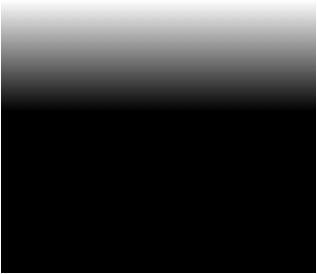
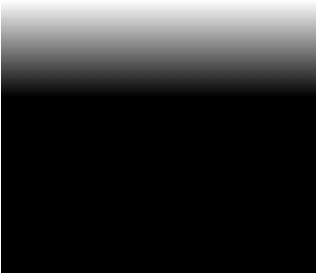
add text progress

Changed region(s): [[0.0, 0.2336, 1.0, 0.3796]]

diff --git a/js/main.js b/js/main.js
@@ -28,7 +28,9 @@
       this.glare2 = this.$('#js-glare2');
       this.scanLine = this.$('#js-scan-line');
       this.scanImage = this.$('#js-scan-image');
-      return this.scan = this.$('#js-scan');
+      this.scan = this.$('#js-scan');
+      this.progressText = this.$('#js-progress-text');
+      return this.progressText2 = this.$('#js-progress-text2');
     };
 
     Main.prototype.animateRainbow = function() {
@@ -104,12 +106,18 @@
       var it, tween;
       it = this;
       tween = TweenMax.to({
-        y: 0
+        y: 0,
+        p: 0
       }, 3, {
         y: 900,
+        p: 100,
         ease: Power1.easeInOut,
         onUpdate: function(e) {
-          return it.scan.setAttribute('transform', "translate(0, " + this.target.y + ")");
+          var progress;
+          it.scan.setAttribute('transform', "translate(0, " + this.target.y + ")");
+          progress = parseInt(this.target.p, 10);
+          it.progressText.innerHTML = "" + progress + "%";
+          return it.progressText2.innerHTML = "" + progress + "%";
         },
         onComplete: (function(_this) {
           return function() {

diff --git a/index.html b/index.html
@@ -81,14 +81,14 @@
     <mask id="mask2">
         
 
-        <text id="js-progress-text2" style="fill: white; font-size: 110px; font-family: 'Wire One', sans-serif; font-weight: 100;" x="405" y="400" transform="scale(1, -1) translate(0, -810)" width="50" height="50">
-         99%
+        <text id="js-progress-text2" text-anchor="middle" style="fill: white; font-size: 110px; font-family: 'Wire One', sans-serif; font-weight: 100;" x="455" y="400" transform="scale(1, -1) translate(0, -810)" width="50" height="50">
+         100%
         </text>
 
         <image stroke-width="2" stroke="white" xlink:href="css/i/black-gradient.png" stroke-width="2" x="380" y="350" width="160" height="200"></image>
 
-        <text id="js-progress-text" style="fill: white; font-size: 110px; font-family: 'Wire One', sans-serif; font-weight: 100;" x="405" y="400">
-          99%
+        <text id="js-progress-text" text-anchor="middle" style="fill: white; font-size: 110px; font-family: 'Wire One', sans-serif; font-weight: 100;" x="455" y="400">
+          100%
         </text>
 
 
